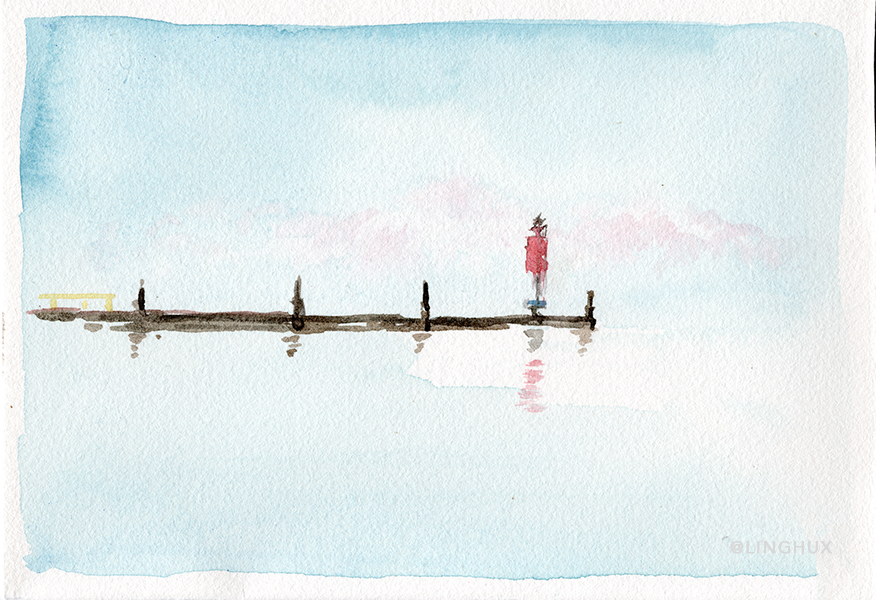
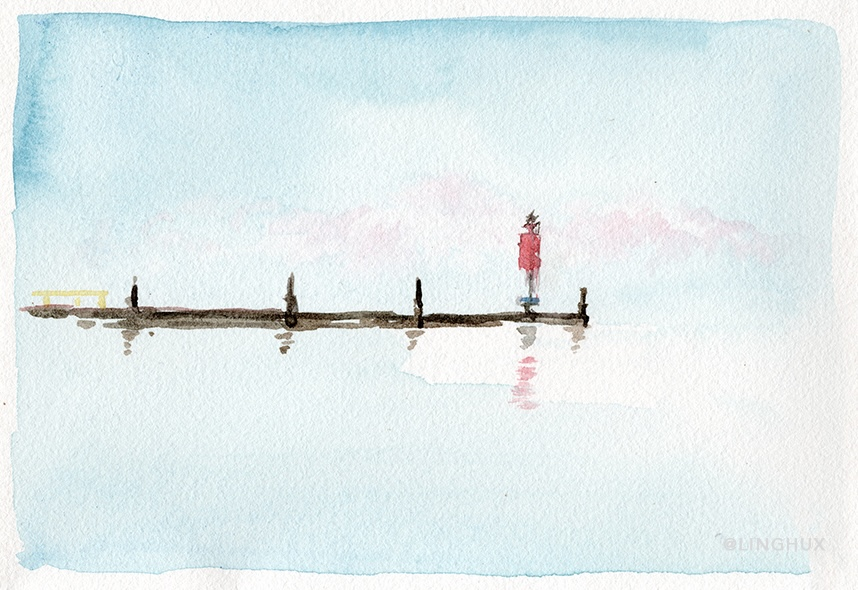
changed Linghux

Changed region(s): [[0.0, 0.0, 1.0, 0.7017], [0.0, 0.8237, 0.9394, 0.9763], [0.0, 0.7322, 0.0303, 0.7627]]

diff --git a/index.html b/index.html
@@ -20,11 +20,11 @@
 
 		<!-- Header -->
 			<header id="header">
-				<h1>Linghux</h1>
+				<h1>linghux</h1>
 				<nav>
 					<ul>
 						<li><a href="#home">Home</a></li>
-						<li><a href="#work">Portfolo</a></li>
+						<li><a href="#work">Portfolio</a></li>
 						<li><a href="#one">About Me</a></li>
 						<li><a href="#contact">Contact</a></li>
 					</ul>
@@ -67,11 +67,40 @@
 						<div class="gallery-item" class="from-right">
 							<a href="images/6.jpg"><img src="images/6.jpg" title="Bent IX" alt="" /></a>
 						</div>
+						<div class="gallery-item" class="from-right">
+							<a href="images/7.jpg"><img src="images/7.jpg" title="Bent IX" alt="" /></a>
+						</div>
+						<div class="gallery-item" class="from-right">
+							<a href="images/8.jpg"><img src="images/8.jpg" title="Bent IX" alt="" /></a>
+						</div>
+						<div class="gallery-item" class="from-right">
+							<a href="images/9.jpg"><img src="images/9.jpg" title="Bent IX" alt="" /></a>
+						</div>
+						<div class="gallery-item" class="from-right">
+							<a href="images/10.jpg"><img src="images/10.jpg" title="Bent IX" alt="" /></a>
+						</div>
+						<div class="gallery-item" class="from-right">
+							<a href="images/11.jpg"><img src="images/11.jpg" title="Bent IX" alt="" /></a>
+						</div>
+						<div class="gallery-item" class="from-right">
+							<a href="images/12.jpg"><img src="images/12.jpg" title="Bent IX" alt="" /></a>
+						</div>
+						<div class="gallery-item" class="from-right">
+							<a href="images/13.jpg"><img src="images/13.jpg" title="Bent IX" alt="" /></a>
+						</div>
+						<div class="gallery-item" class="from-right">
+							<a href="images/14.jpg"><img src="images/14.jpg" title="Bent IX" alt="" /></a>
+						</div>
+						<div class="gallery-item" class="from-right">
+							<a href="images/15.jpg"><img src="images/15.jpg" title="Bent IX" alt="" /></a>
+						</div>
+						<div class="gallery-item" class="from-right">
+							<a href="images/16.jpg"><img src="images/16.jpg" title="Bent IX" alt="" /></a>
+						</div>
 					</div>
 
 			</div>
 		</section>
-
 		<!-- One -->
 			<section id="one" class="main style2 left dark fullscreen">
 				<div class="content box style2">
@@ -129,10 +158,10 @@
 					</a>
 					<a href="https://youtube.com/@linghux" target="_blank" class="social-link youtube">
 						<i class="fab fa-youtube"></i>
-						<span>Linghux</span>
+						<span>linghux</span>
 					</a>
 					</div>
-				  <p>&copy; 2025 Linghux</p>
+				  <p>&copy; 2025 linghux</p>
 				</div>
 			  </footer>
 

diff --git a/assets/css/main.css b/assets/css/main.css
@@ -1238,7 +1238,7 @@ body.is-touch .poptrox-popup .closer {
 }
 .gallery .gallery-item {
   break-inside: avoid;
-  margin: 6px;
+  margin: 0.5em;
 }
 .gallery .gallery-item a img {
   width: 100%;
@@ -1595,6 +1595,18 @@ body.is-touch .main {
 }
 .footer .footer-content .social-links .social-link.youtube:hover {
   color: #FF0000;
+}
+@media (max-width: 600px) {
+  .footer .footer-content {
+    flex-direction: column;
+    align-items: center;
+    gap: 1em;
+    text-align: center;
+  }
+  .footer .footer-content .social-links {
+    flex-direction: column;
+    gap: 0.75em;
+  }
 }
 
 /* Home */

diff --git a/assets/sass/layout/_footer.scss b/assets/sass/layout/_footer.scss
@@ -51,5 +51,19 @@
 			}
 		  }
 		}
+
+		@media (max-width: 600px) {
+			.footer-content {
+			  flex-direction: column;
+			  align-items: center;
+			  gap: 1em;
+			  text-align: center;
+		
+			  .social-links {
+				flex-direction: column;
+				gap: 0.75em;
+			  }
+			}
+		  }
 	  }
 	  

diff --git a/assets/css/noscript.css b/assets/css/noscript.css
@@ -3,9 +3,9 @@
 	html5up.net | @ajlkn
 	Free for personal and commercial use under the CCA 3.0 license (html5up.net/license)
 */
-
 /* Loader */
+body:before, body:after {
+  display: none;
+}
 
-	body:before, body:after {
-		display: none;
-	}
+/*# sourceMappingURL=noscript.css.map */

diff --git a/assets/sass/components/_gallery.scss b/assets/sass/components/_gallery.scss
@@ -15,7 +15,7 @@
 		margin-top: 3em;
 		.gallery-item {
 			break-inside: avoid;
-			margin: 6px;
+			margin: 0.5em;
 			a {
 				img {
 					width: 100%;
